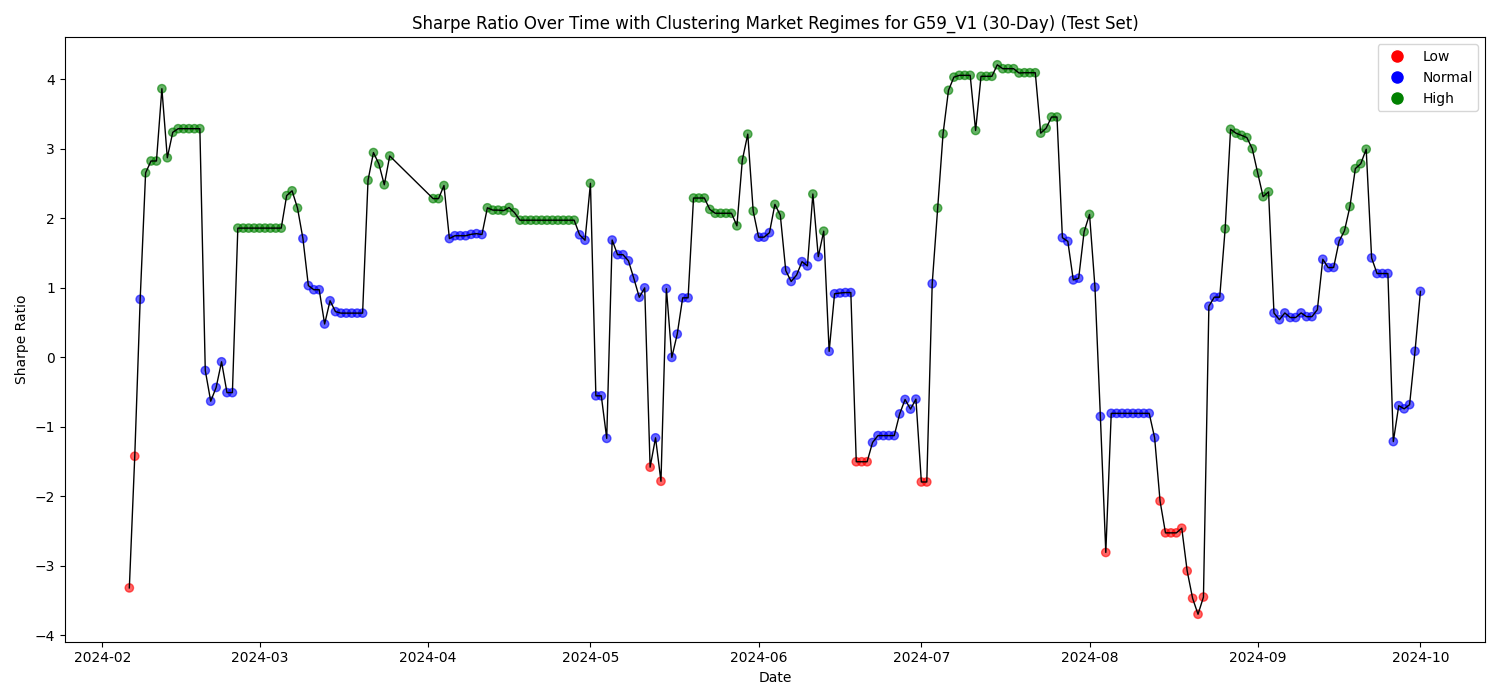
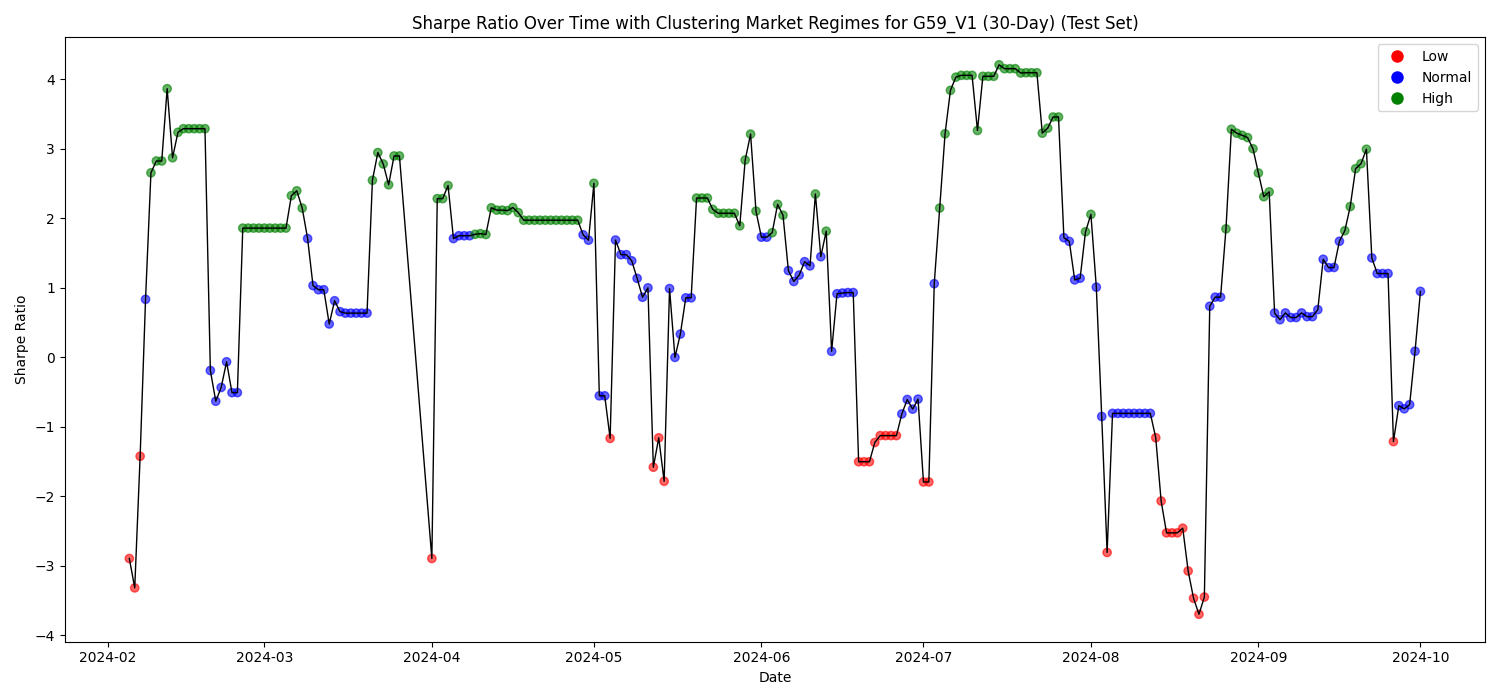
added new simulation logic

diff --git a/VLSTAR.py b/VLSTAR.py
@@ -23,23 +23,24 @@ def select_columns(df, metrics, windows):
 
 
 windows = [30]
-metrics = [
-    "Realized_Volatility",
-    "Garman_Klass_Volatility",
-    "OU_Theta",
-    "Hurst",
-    "Momentum",
-    "RSI",
-    "ADX",
-]
+# metrics = [
+#     "Realized_Volatility",
+#     "Garman_Klass_Volatility",
+#     "OU_Theta",
+#     "Hurst",
+#     "Momentum",
+#     "RSI",
+#     "ADX",
+# ]
 
-market_features = pd.read_csv(
-    "all_features_BTCUSDT.csv", index_col=0, parse_dates=[0], low_memory=False
-)
-market_features = select_columns(market_features, metrics, windows)
-market_features = market_features.resample("D").ffill()
+# market_features = pd.read_csv(
+#     "all_features_BTCUSDT.csv", index_col=0, parse_dates=[0], low_memory=False
+# )
+# market_features = select_columns(market_features, metrics, windows)
+# market_features = market_features.resample("D").ffill()
 
 strategies_data = {}
+merged_data = {}
 returns_features_path = "returns_features"
 for file in os.listdir(returns_features_path):
     if file.endswith("_returns_features.csv"):
@@ -55,24 +56,26 @@ for file in os.listdir(returns_features_path):
         for window in windows:
             selected_columns.extend(
                 [
-                    f"Mean_Returns_{window}",
-                    f"ACF_Lag_1_{window}",
+                    # f"Mean_Returns_{window}",
+                    # f"ACF_Lag_1_{window}",
                     f"Sharpe_Ratio_{window}",
                 ]
             )
         df_selected = df[selected_columns]
         df_selected = df_selected.resample("D").ffill()
         strategies_data[strategy_name] = df_selected
+        df_selected = df_selected.dropna()  ##
+        if len(df_selected > 0):  ##
+            merged_data[strategy_name] = df_selected  ##
 
-merged_data = {}
-for strategy, df in strategies_data.items():
-    merged_df = pd.merge(
-        market_features, df, left_index=True, right_index=True, how="inner"
-    )
-    if strategy in ["G59_V1", "G59_V2", "G90_V1", "G24"]:
-        merged_df = merged_df.dropna(axis=1, thresh=0.7 * len(merged_df))
-        merged_df = merged_df.dropna()
-        merged_data[strategy] = merged_df
+# for strategy, df in strategies_data.items():
+#     merged_df = pd.merge(
+#         market_features, df, left_index=True, right_index=True, how="inner"
+#     )
+#     if strategy in ["G59_V1", "G59_V2", "G90_V1", "G24"]:
+#         merged_df = merged_df.dropna(axis=1, thresh=0.7 * len(merged_df))
+#         merged_df = merged_df.dropna()
+#         merged_data[strategy] = merged_df
 
 
 def split_train_test(merged_data):
@@ -80,13 +83,22 @@ def split_train_test(merged_data):
     test_data = {}
 
     for strategy, df in merged_data.items():
-        df = df.sort_index()
+        if strategy in ["G59_V1", "G59_V2", "G90_V1", "G24", "G58_V1"]:
+            df = df.sort_index()
 
-        train_df = df[df.index.year != 2024]
-        test_df = df[df.index.year == 2024]
+            train_df = df[df.index.year != 2024]
+            test_df = df[df.index.year == 2024]
 
-        train_data[strategy] = train_df
-        test_data[strategy] = test_df
+            train_data[strategy] = train_df
+            test_data[strategy] = test_df
+        else:
+            df = df.sort_index()
+
+            train_df = df
+            test_df = df
+
+            train_data[strategy] = train_df
+            test_data[strategy] = test_df
 
     return train_data, test_data
 
@@ -333,22 +345,38 @@ def map_clusters_to_regimes(
     return train_regime_labels, test_regime_labels
 
 
-def simulate_returns(test_sharpe, test_regime_labels, strategy, rets_df):
+def simulate_returns(
+    test_sharpe,
+    test_regime_labels,
+    strategy,
+    rets_df,
+    multiplier_low=0.1,
+    multiplier_high=2.0,
+):
     df_test = test_sharpe.copy()
+
     regimes = np.array(test_regime_labels[strategy])
+
+    shifted_regimes = np.roll(regimes, 1)
+    shifted_regimes[0] = "Normal"
+
+    multipliers = np.ones_like(shifted_regimes, dtype=float)
+    multipliers[shifted_regimes == "Low"] = multiplier_low
+    multipliers[shifted_regimes == "High"] = multiplier_high
 
     # always trade
     df_test["Returns_Always_Trade"] = rets_df.loc[df_test.index, strategy].values
 
-    # don't trade when Low
-    df_test["Returns_Conditional_Trade"] = rets_df.loc[df_test.index, strategy].values
-    df_test.loc[regimes == "Low", "Returns_Conditional_Trade"] = 0
+    # apply multipliers
+    df_test["Returns_Conditional_Trade"] = (
+        rets_df.loc[df_test.index, strategy].values * multipliers
+    )
 
     # yield curve
-    df_test["Cumulative_Always_Trade"] = df_test["Returns_Always_Trade"].cumsum()
-    df_test["Cumulative_Conditional_Trade"] = df_test[
-        "Returns_Conditional_Trade"
-    ].cumsum()
+    df_test["Cumulative_Always_Trade"] = (1 + df_test["Returns_Always_Trade"]).cumprod()
+    df_test["Cumulative_Conditional_Trade"] = (
+        1 + df_test["Returns_Conditional_Trade"]
+    ).cumprod()
 
     # Sharpe
     sharpe_always = (
@@ -407,7 +435,7 @@ def plot_yield_curves(test_sharpe, test_regime_labels, strategy, window, rets_df
     )
 
     plt.tight_layout()
-    plt.savefig(f"graph/vlstar/simulation/{strategy}_{window}.png")
+    plt.savefig(f"graph/vlstar/simulation_multiplier/{strategy}_{window}.png")
     plt.show()
 
 
@@ -415,9 +443,6 @@ rets = pd.read_csv(
     "rets.csv", index_col="datetime", parse_dates=["datetime"], low_memory=False
 )
 rets = rets.resample("D").ffill()
-
-test_period_dates = next(iter(test_data.values())).index
-rets = rets.loc[rets.index.isin(test_period_dates)]
 
 
 kmedoids_models_vlstar = {window: {} for window in windows}
